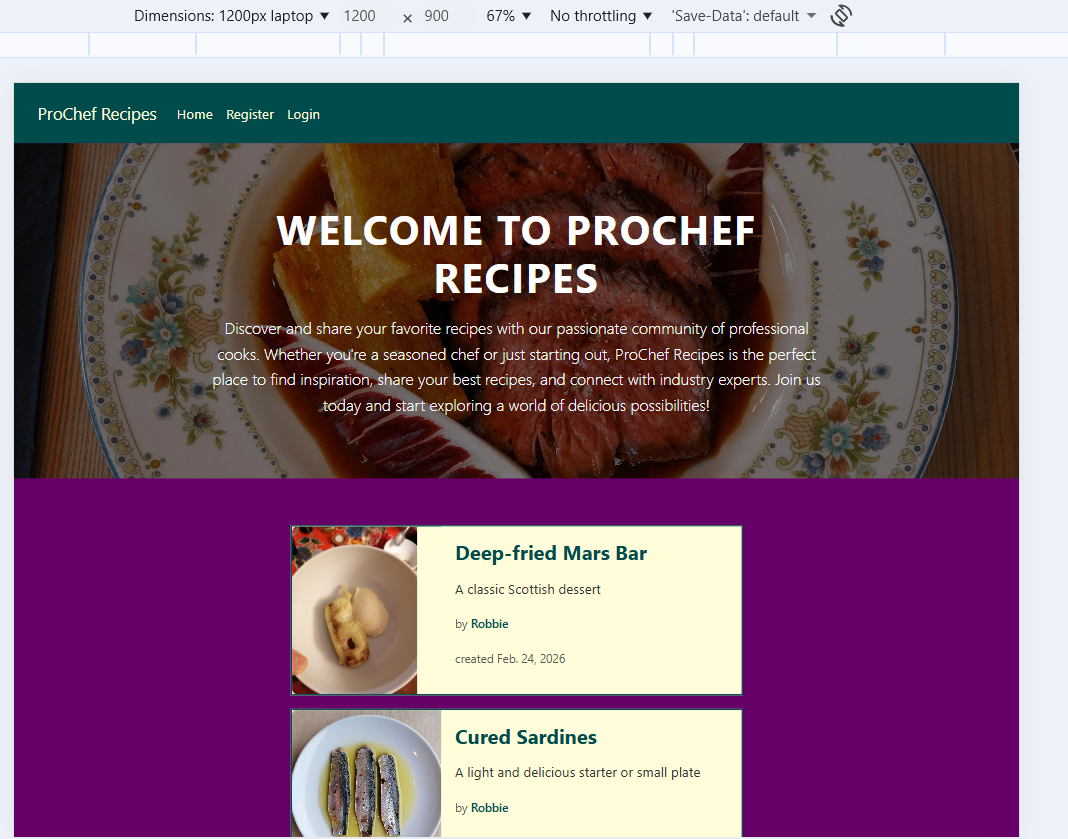
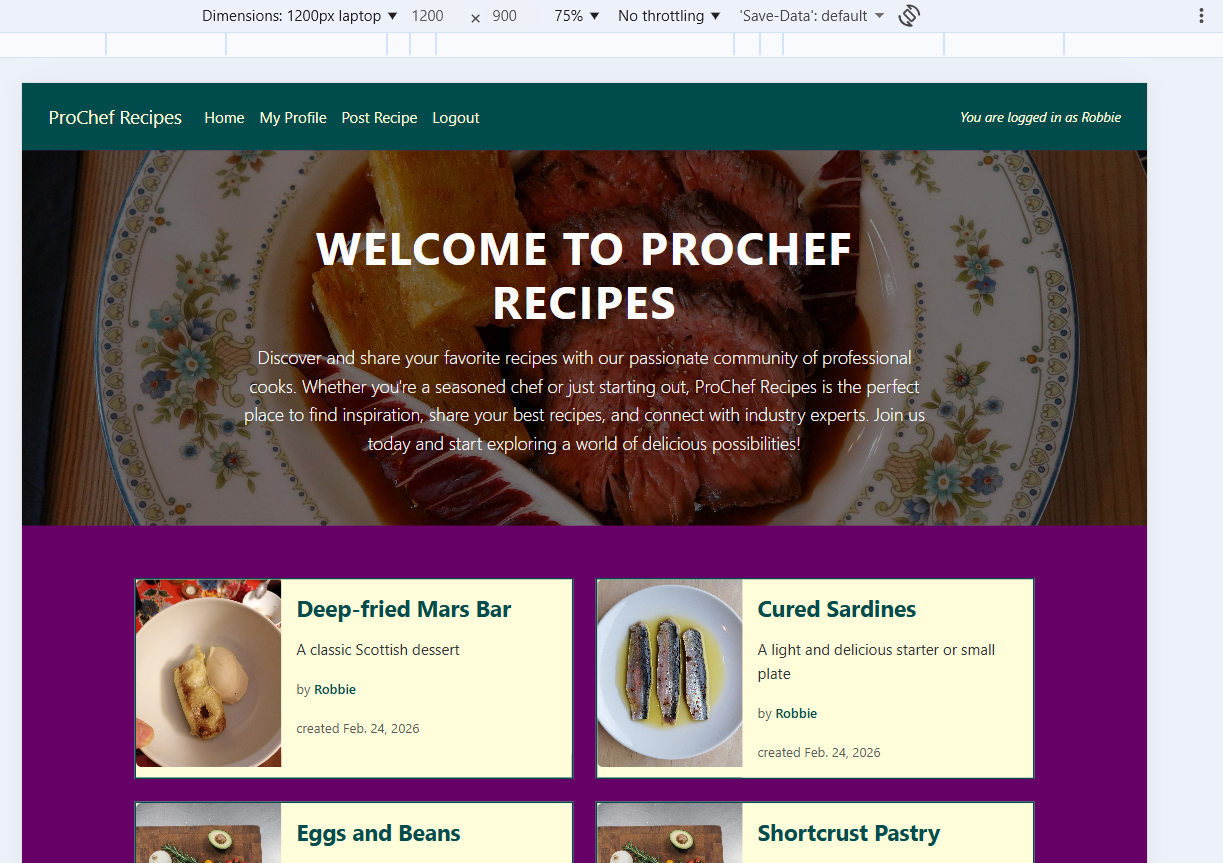
Edit index.html to display cards two to a row on 1200px

diff --git a/blog/templates/blog/index.html b/blog/templates/blog/index.html
@@ -20,9 +20,10 @@
 </header>
 
 <div class="container-fluid recipe-post-container mt-4">
-  <div class="row">
+  <div class="row g-4">
     {% for post in object_list %}
-    <div class="card mb-3" style="max-width: 540px">
+    <div class="col-12 col-xl-6">
+      <div class="card h-100">
       <div class="row g-0">
         <div class="col-12 col-md-4">
           {% if "placeholder" in post.image.url %}
@@ -61,6 +62,7 @@
           </div>
         </div>
       </div>
+    </div>
     </div>
     {% endfor %}
   </div>

diff --git a/static/css/style.css b/static/css/style.css
@@ -379,7 +379,6 @@ footer {
 }
 /* Container Adjustments for Responsiveness */
 @media screen and (min-width: 1200px) {
-    
     .reduced-width {
         width: 70%;
     }
